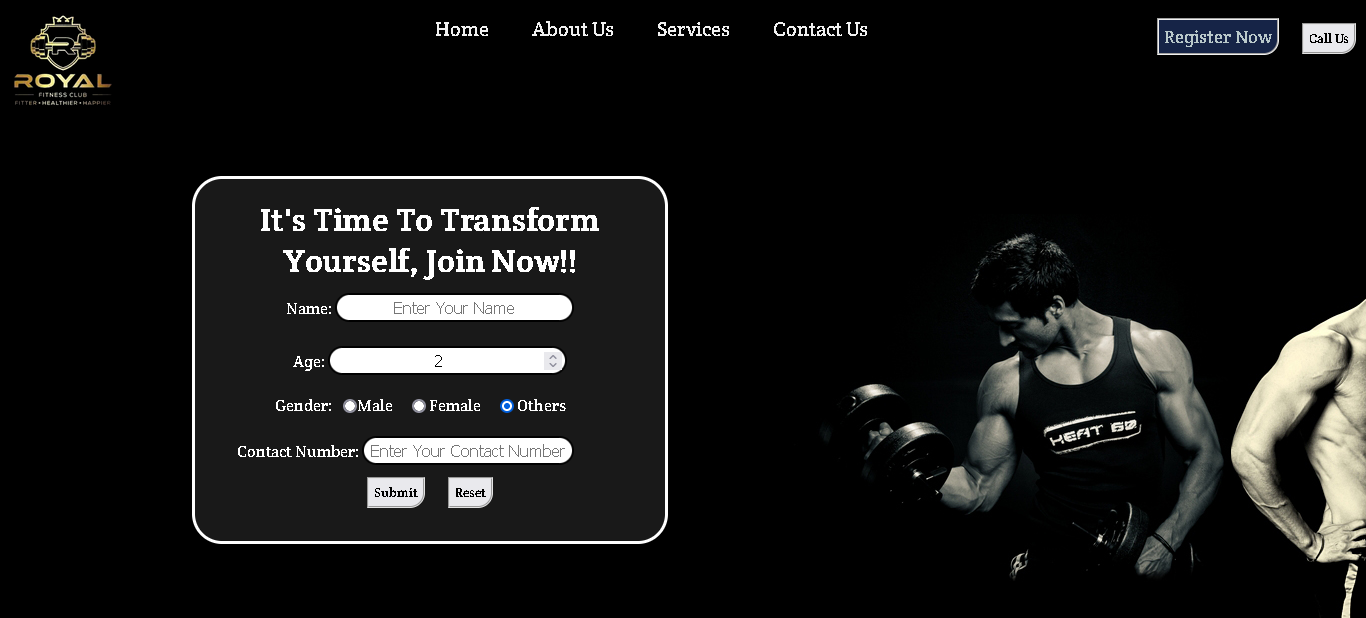
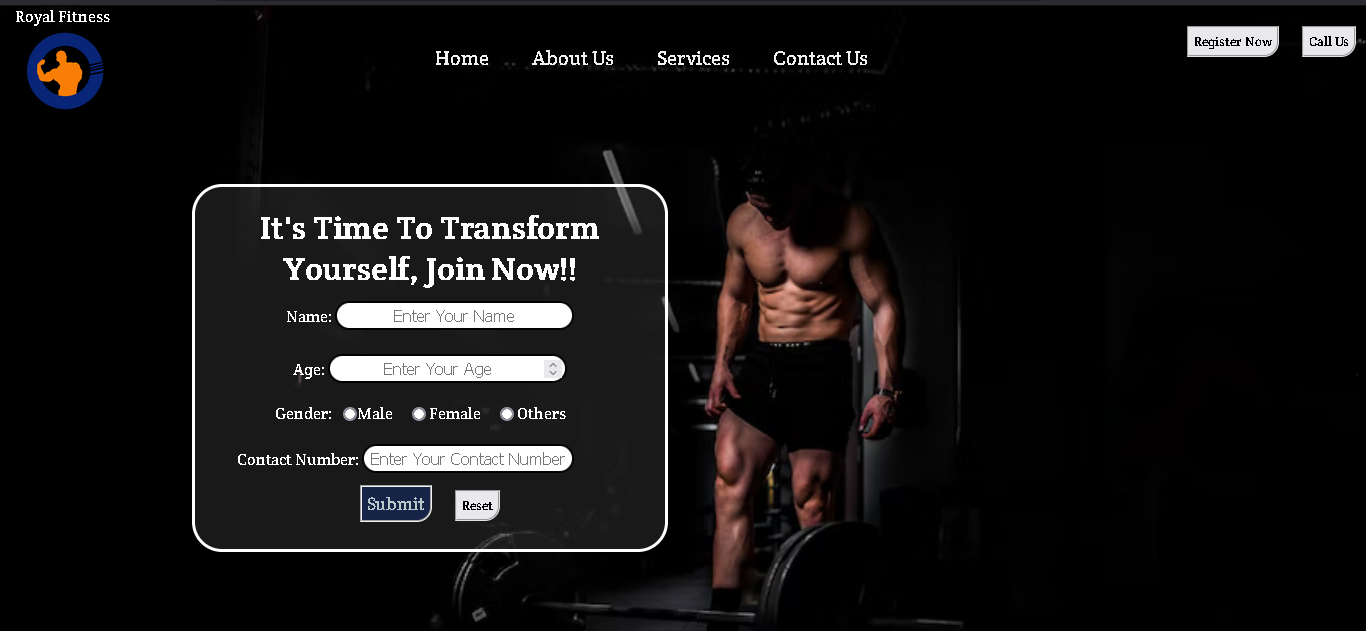
Resolved issues

diff --git a/src/blocks/Keegan/css/style.css b/src/blocks/Keegan/css/style.css
@@ -8,10 +8,11 @@ body {
     font-family: 'Crete Round', serif;
     /* border:5px red solid; */
     /* background-color: #61890c; */
-    background-image: url("/src/blocks/Keegan/img/home.jpg");
+    background-image: url("/src/blocks/Keegan/img/img1.avif");
     overflow: hidden;
     /* background-size: 100vw; */
     background-repeat: no-repeat;
+    background-size: cover;
 }
 
 /* <!-- Navigation bar starts here */
@@ -61,11 +62,16 @@ header {
 .navbar li a:hover,
 .navbar li a:active {
     text-decoration: underline 3px solid;
-    color:#1F4068;
+    color:#242d8b;
+    background-color: #fff;
     text-align: center;
     cursor: pointer;
 }
 
+.logo-txt{
+color: #fff;
+margin-left:15px;
+}
 
 
 
@@ -130,18 +136,3 @@ text-align: center;
   .gender label{
     padding:0px 8px;
   }
-
-
-
-
-
-
-
-
-
-
-/* {
-    color:#afe341 green
-    #20292a black
-    #f1f1f1 white
-} */

diff --git a/src/blocks/Keegan/index.html b/src/blocks/Keegan/index.html
@@ -16,8 +16,11 @@
     <!-- Navigation bar starts here -->
     <header class="header">
         <div class="logo">
-            <img src="img/logo1.png" alt="logo">
+            <p class="logo-txt"> Royal Fitness</p>
+            <img src="/src/blocks/Keegan/img/logo.png"   alt="logo">
+          
         </div>
+       
         <div class="navbar">
             <ul>
                 <li><a href="#">Home</a></li>
@@ -76,10 +79,5 @@
         
         </form>
     </div>
-
-
-
-
 </body>
-
 </html>
